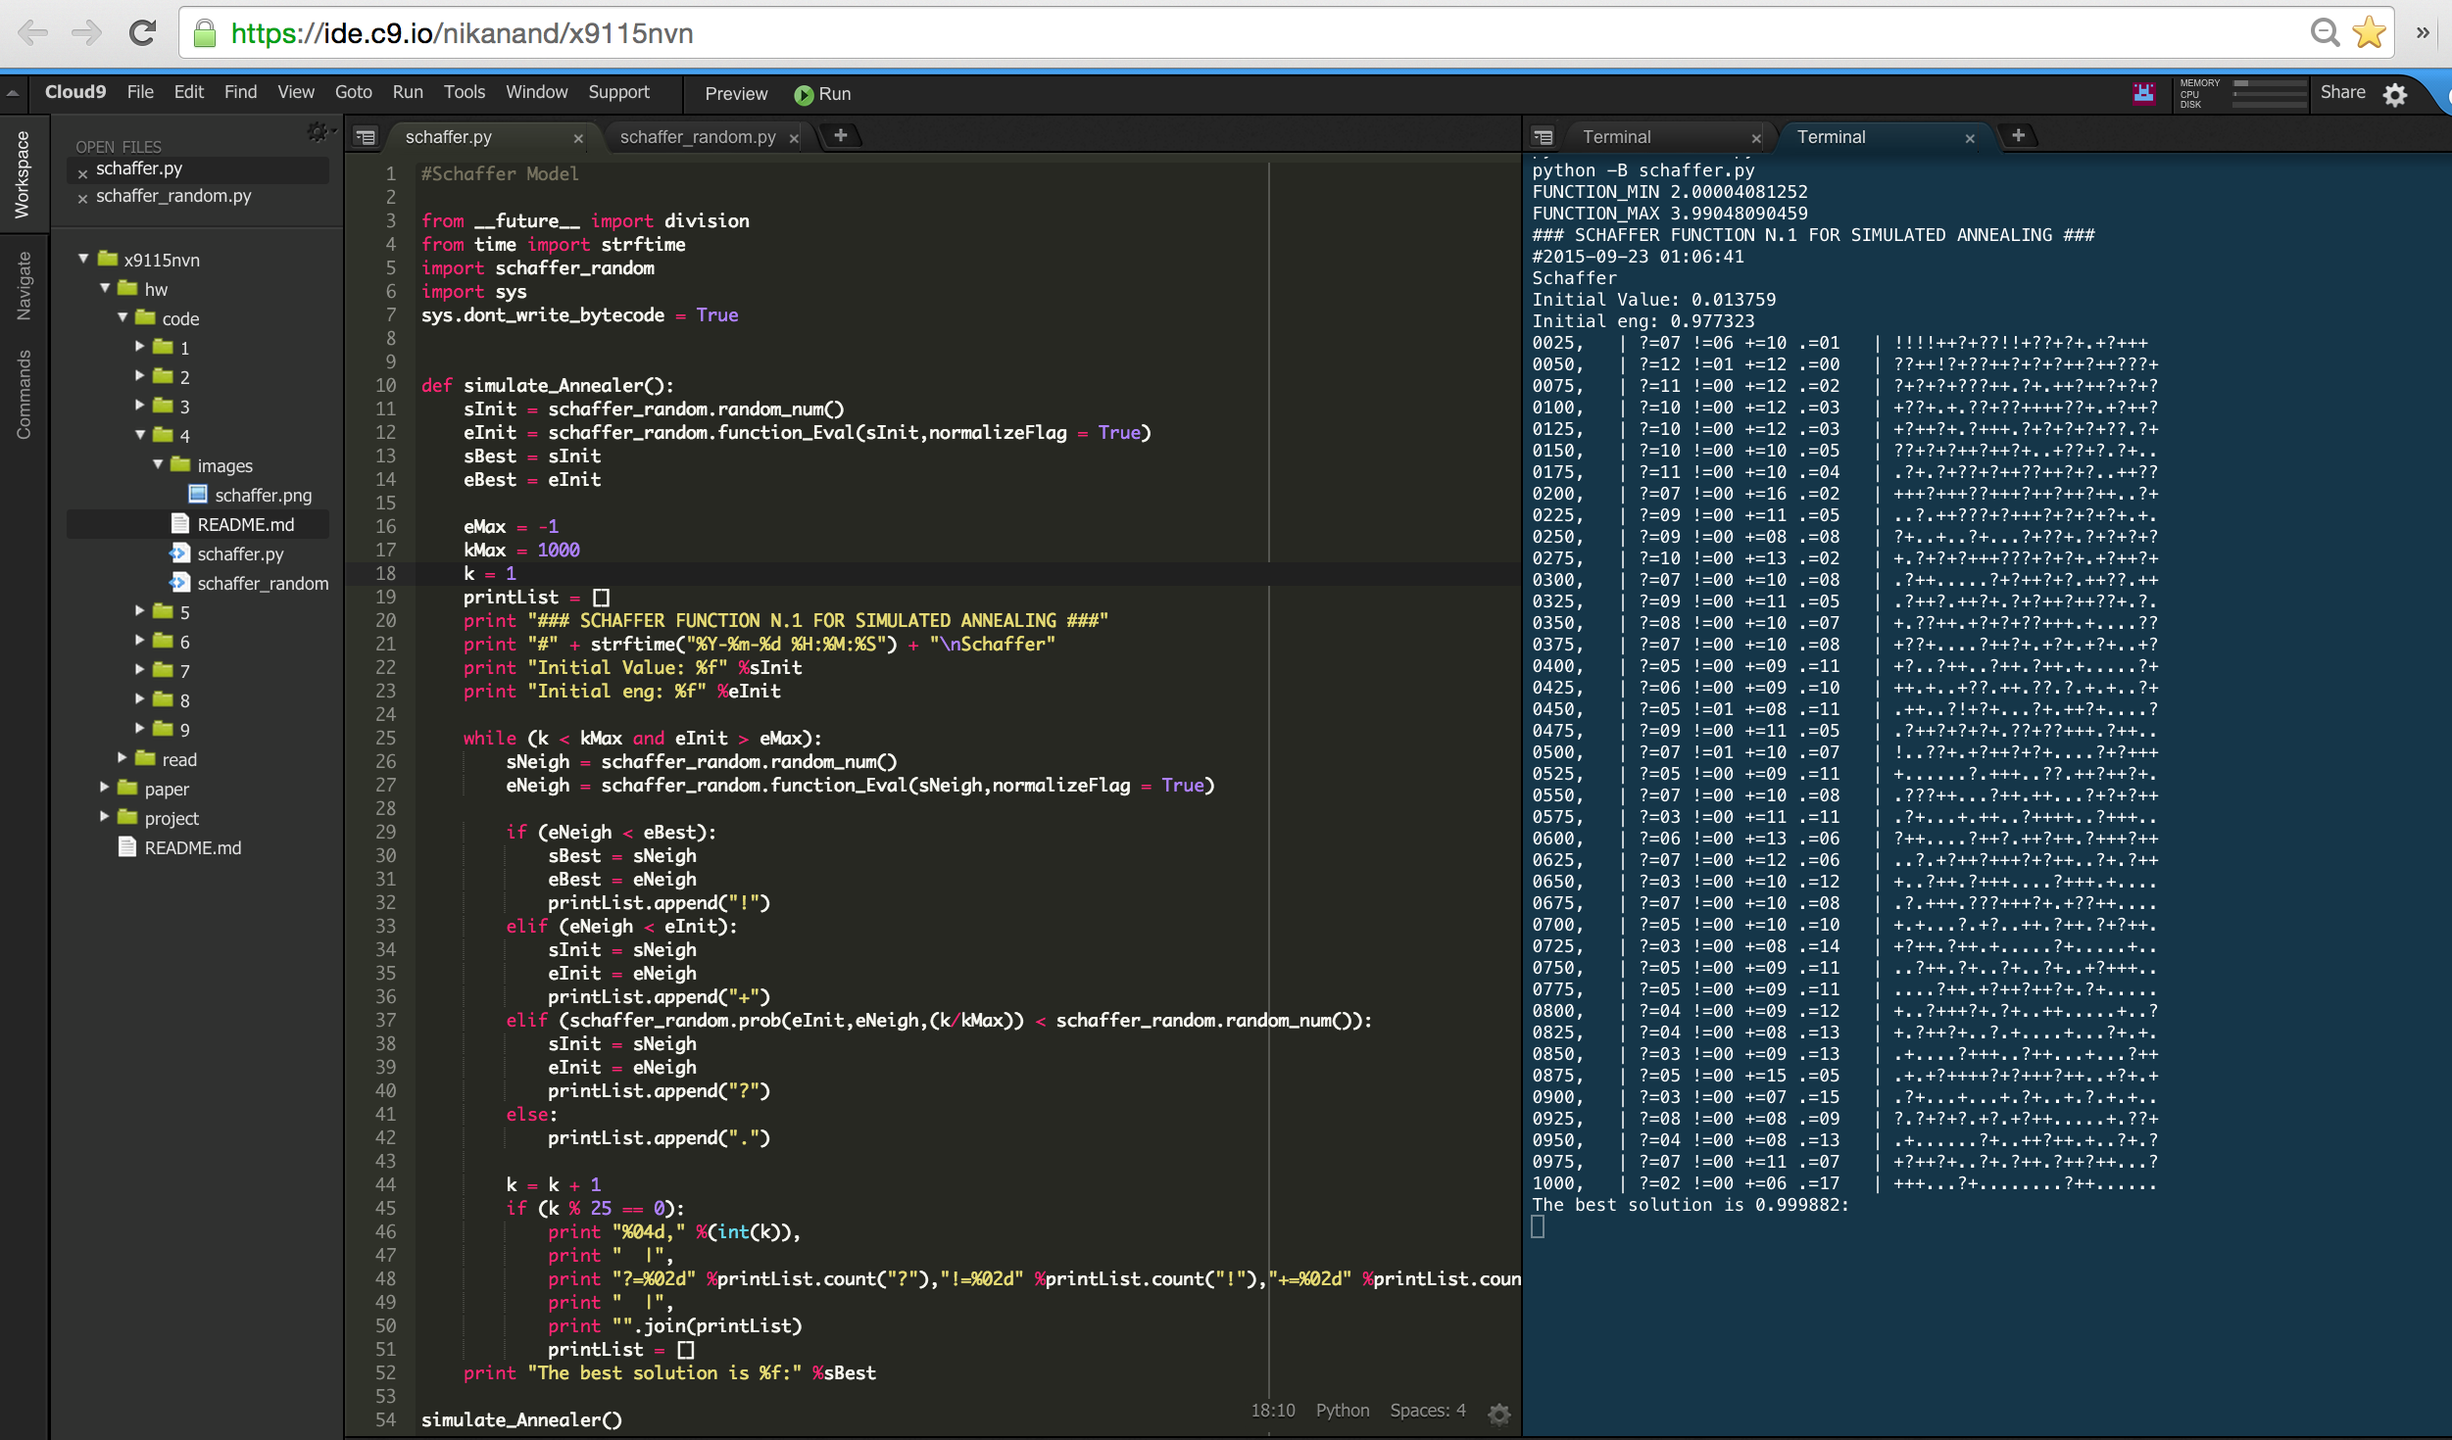
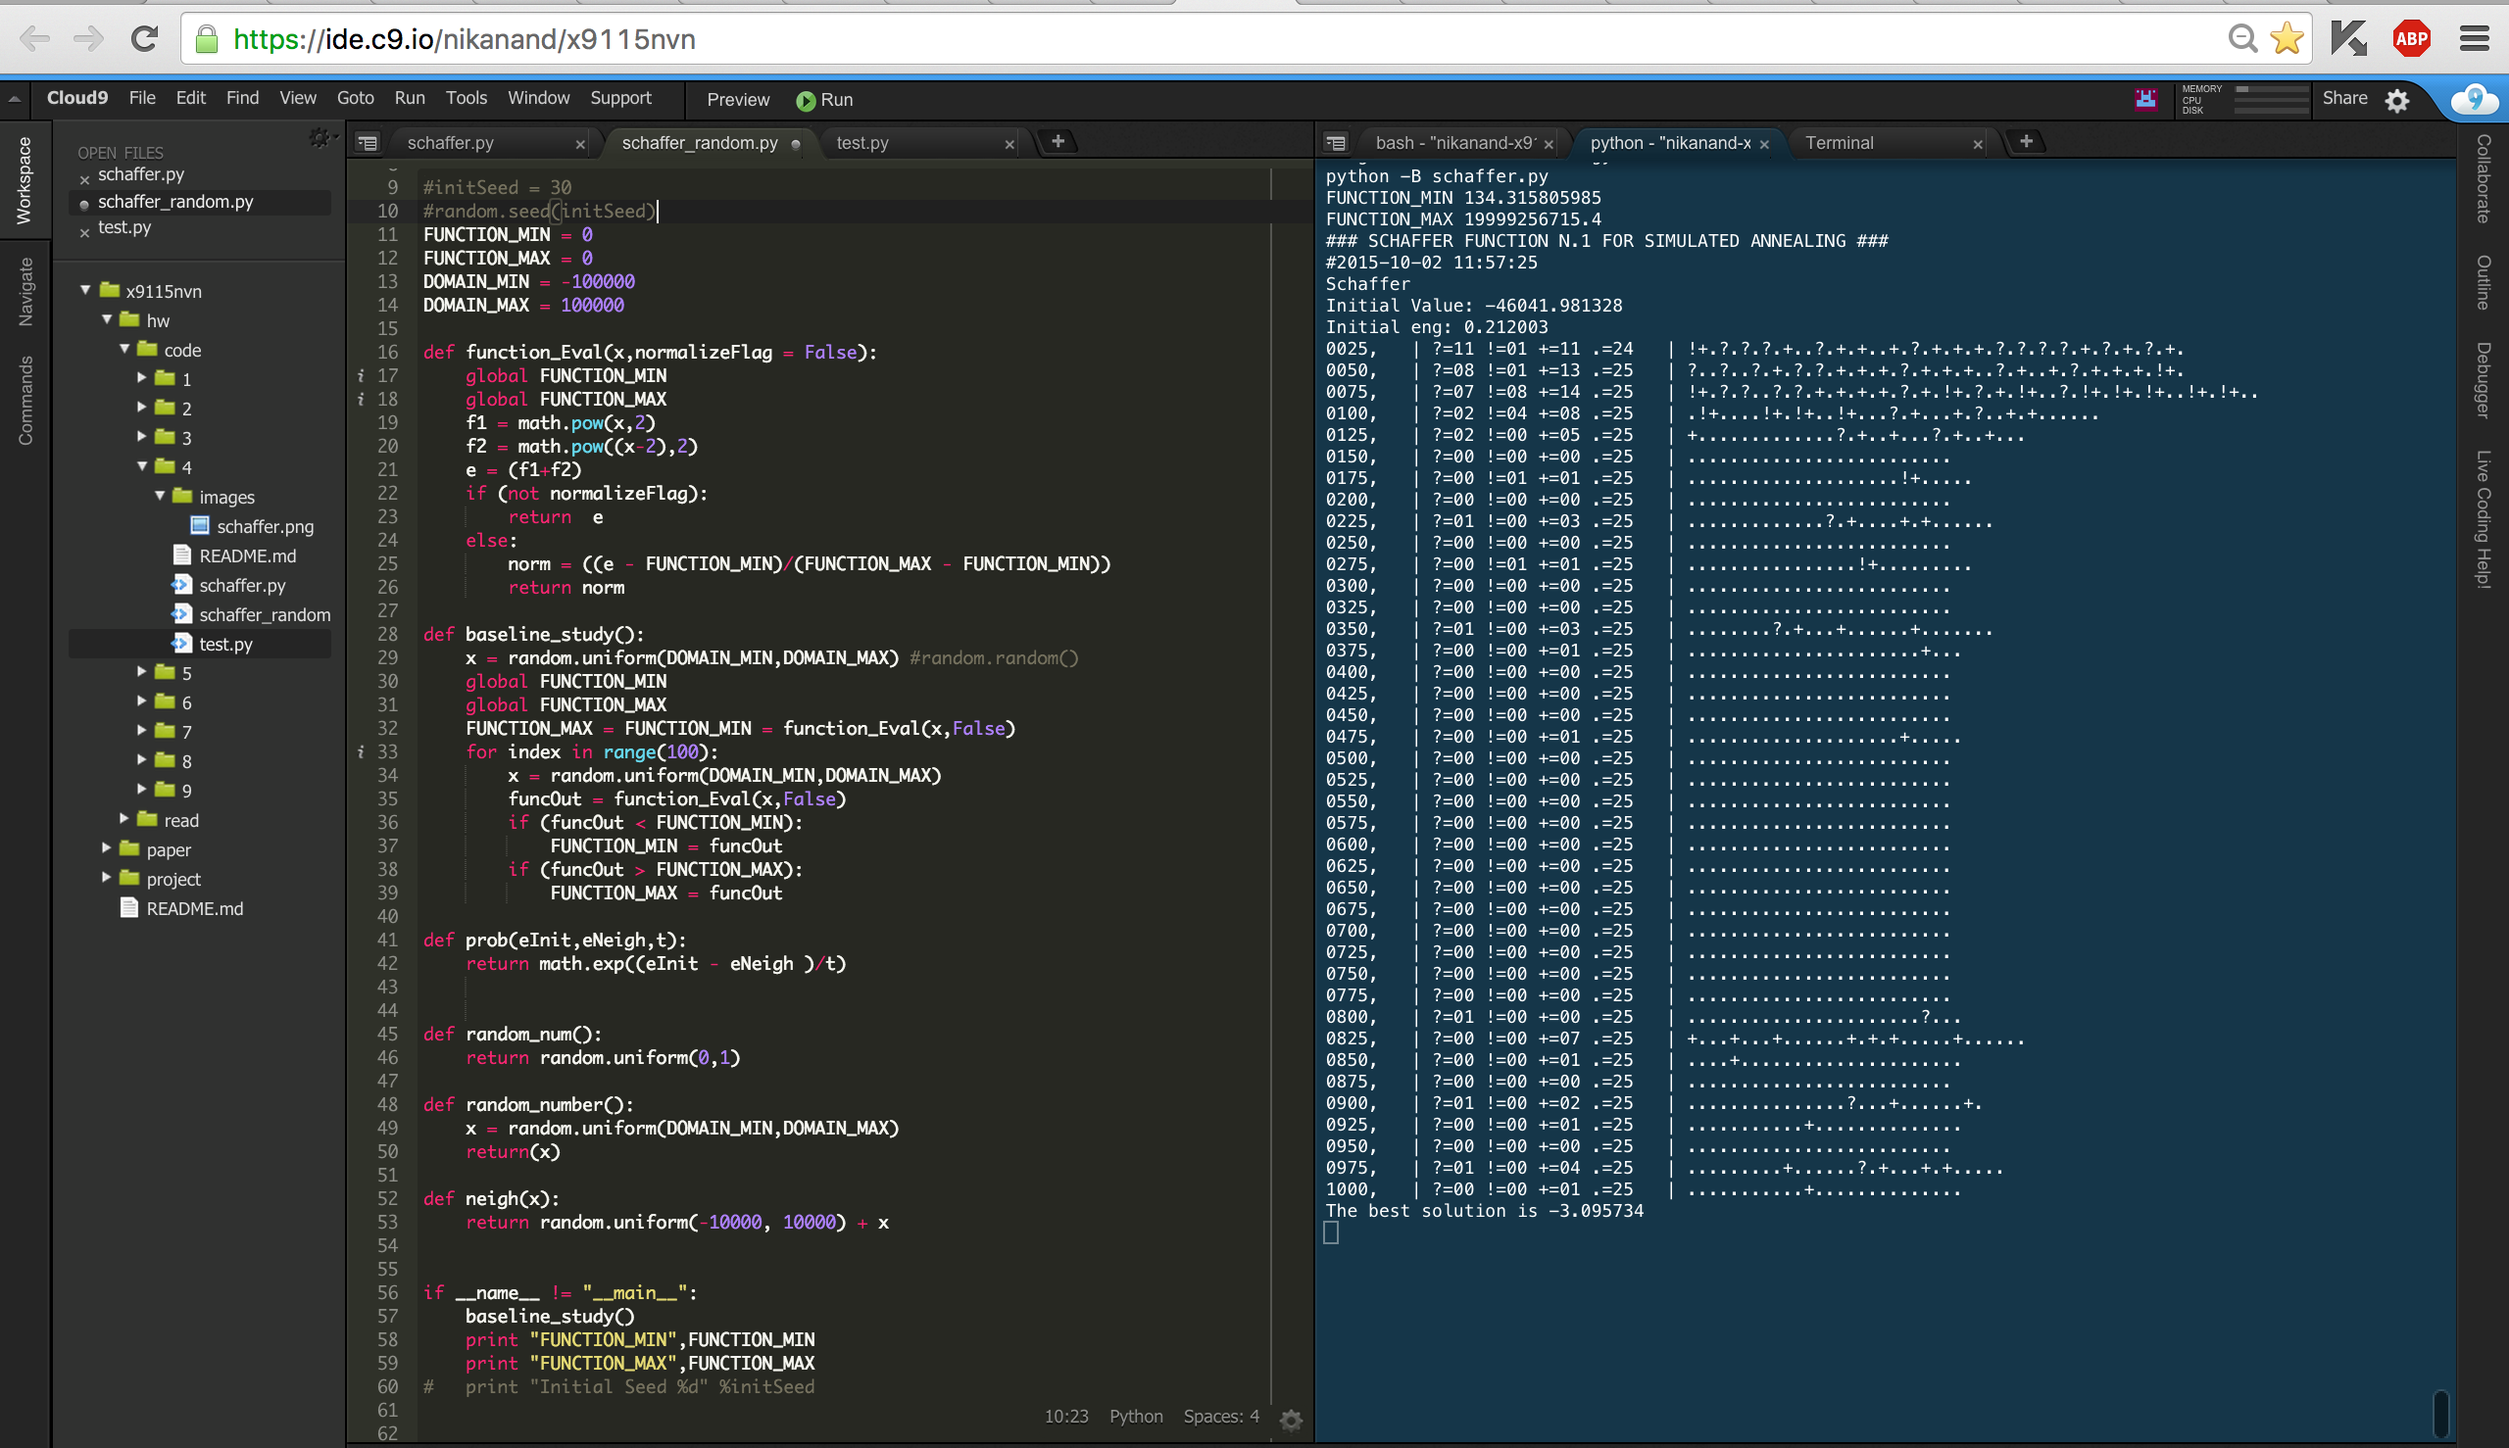
fix neigh function

Changed region(s): [[0.0, 0.0, 1.0, 1.0], [0.0, 0.2449, 0.0312, 0.3061], [0.4053, 0.0918, 0.4365, 0.1224]]

diff --git a/hw/code/4/schaffer_random.py b/hw/code/4/schaffer_random.py
@@ -8,25 +8,30 @@ sys.dont_write_bytecode = True
 
 #initSeed = 30
 #random.seed(initSeed)
-
 FUNCTION_MIN = 0
 FUNCTION_MAX = 0
+DOMAIN_MIN = -100000
+DOMAIN_MAX = 100000
 	
 def function_Eval(x,normalizeFlag = False):
+    global FUNCTION_MIN
+    global FUNCTION_MAX
     f1 = math.pow(x,2)
     f2 = math.pow((x-2),2)
+    e = (f1+f2)
     if (not normalizeFlag):
-        return (f1+f2)	
+        return 	e
     else:
-        return (((f1+f2) - FUNCTION_MIN)/(FUNCTION_MAX - FUNCTION_MIN))    
+        norm = ((e - FUNCTION_MIN)/(FUNCTION_MAX - FUNCTION_MIN))
+        return norm    
 
 def baseline_study():
-    x = random.random()
+    x = random.uniform(DOMAIN_MIN,DOMAIN_MAX) #random.random()
     global FUNCTION_MIN
     global FUNCTION_MAX
     FUNCTION_MAX = FUNCTION_MIN = function_Eval(x,False)
     for index in range(100):
-        x = random.random()
+        x = random.uniform(DOMAIN_MIN,DOMAIN_MAX) 
         funcOut = function_Eval(x,False)
         if (funcOut < FUNCTION_MIN):
             FUNCTION_MIN = funcOut
@@ -34,15 +39,23 @@ def baseline_study():
             FUNCTION_MAX = funcOut  
 
 def prob(eInit,eNeigh,t):
-    return math.e**((eInit - eNeigh )/t)
+    return math.exp((eInit - eNeigh )/t)
         
         
 def random_num():
-    return(random.random())
+    return random.uniform(0,1)
+    
+def random_number():		
+    x = random.uniform(DOMAIN_MIN,DOMAIN_MAX)
+    return(x)
+    
+def neigh(x):
+    return random.uniform(-10000, 10000) + x
+
 
 if __name__ != "__main__":
     baseline_study()
     print "FUNCTION_MIN",FUNCTION_MIN 
     print "FUNCTION_MAX",FUNCTION_MAX
-#    print "Initial Seed %d" %initSeed
+#   print "Initial Seed %d" %initSeed
 

diff --git a/hw/code/4/schaffer.py b/hw/code/4/schaffer.py
@@ -8,12 +8,12 @@ sys.dont_write_bytecode = True
 
 
 def simulate_Annealer():
-    sInit = schaffer_random.random_num()
+    sInit = schaffer_random.random_number()
     eInit = schaffer_random.function_Eval(sInit,normalizeFlag = True) 
     sBest = sInit
     eBest = eInit
     
-    eMax = -1 
+    eMax = -0.1 
     kMax = 1000
     k = 1
     printList = []
@@ -21,16 +21,20 @@ def simulate_Annealer():
     print "#" + strftime("%Y-%m-%d %H:%M:%S") + "\nSchaffer"
     print "Initial Value: %f" %sInit
     print "Initial eng: %f" %eInit
-
-    while (k <= kMax and eInit > eMax):
-        sNeigh = schaffer_random.random_num()
+    #sNeigh = sInit
+    while (k <= kMax):
+        #sNeigh = schaffer_random.random_number()
+        sNeigh = schaffer_random.neigh(sInit)
+        #print "Neigh:", sNeigh,
         eNeigh = schaffer_random.function_Eval(sNeigh,normalizeFlag = True)
-
+        #print "energy:", eNeigh,
+        
         if (eNeigh < eBest):
             sBest = sNeigh
             eBest = eNeigh
             printList.append("!")  
-        elif (eNeigh < eInit):
+            
+        if (eNeigh < eInit):
             sInit = sNeigh
             eInit = eNeigh
             printList.append("+")
@@ -38,8 +42,12 @@ def simulate_Annealer():
             sInit = sNeigh
             eInit = eNeigh
             printList.append("?")
-        else:
-            printList.append(".")
+        #else:
+            
+        printList.append(".")
+        
+        #print "sbest:", sBest ,
+        #print "ebest:", eBest
         
         k = k + 1
         if (k % 25 == 0):
